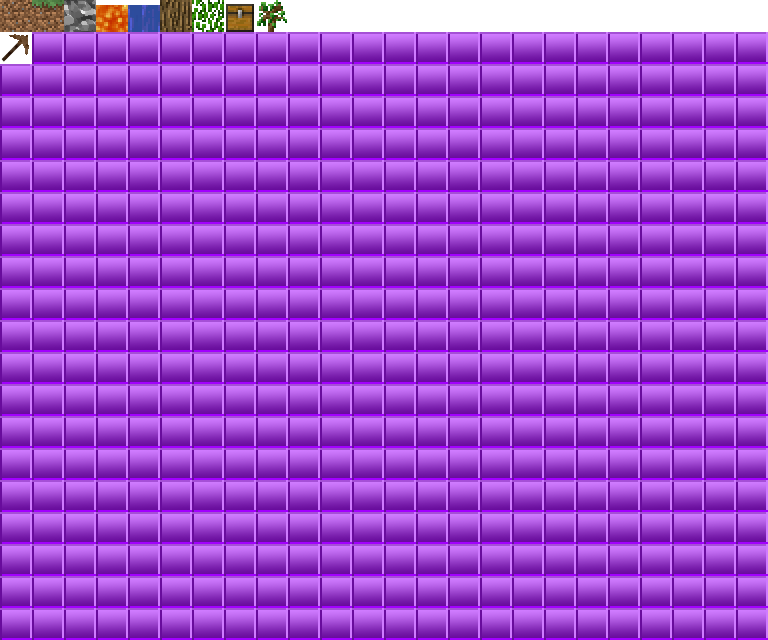
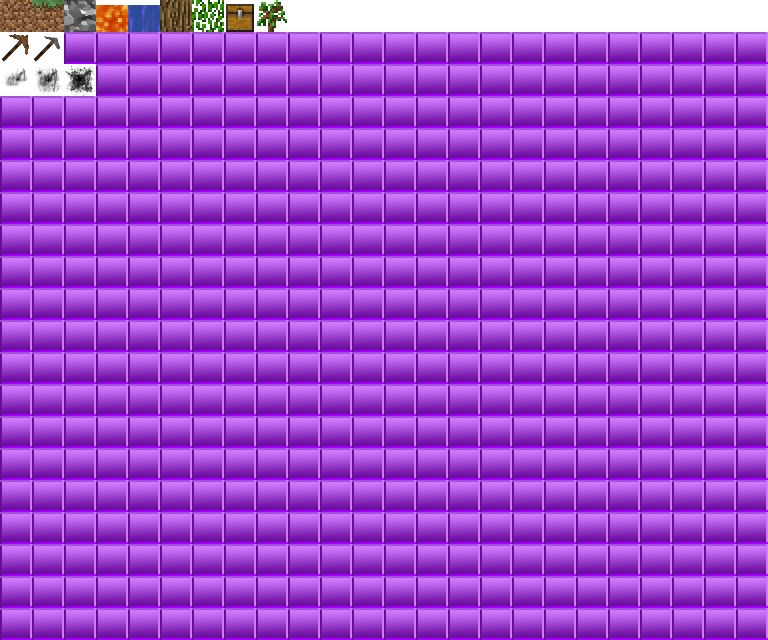
Разрушение блоков в несколько кликов

Changed region(s): [[0.0, 0.0312, 0.125, 0.1562]]

diff --git a/src/entities/blocks/BaseBlock.ts b/src/entities/blocks/BaseBlock.ts
@@ -1,15 +1,20 @@
 import { Inject } from "typedi";
-import StructuresComponent from "../../components/StructuresComponent";
+import StructuresComponent, { DAMAGE_1, DAMAGE_2, DAMAGE_3 } from "../../components/StructuresComponent";
 import Main from "../../Main";
-import { borderSquare } from "../../utils/phaser";
+import { borderSquare, makeTile } from "../../utils/phaser";
 
 export default class BaseBlock extends Phaser.Sprite {
 
     @Inject(() => Main)
     public game: Main;
 
+    public healthDamage: number = 30;
+    public health = 100;
+    public maxHealth = 100;
+
     private hover: Phaser.Graphics = null;
     private disabled: boolean = false;
+    private damageSprite: Phaser.Sprite;
 
     constructor(
         game: Main,
@@ -33,13 +38,46 @@ export default class BaseBlock extends Phaser.Sprite {
                 this.onClick();
             }
         });
+
         this.events.onInputOver.add(() => this.onHover());
         this.events.onInputOut.add(() => this.onHoverOut());
+        this.events.onRevived.add(() => this.onRevived());
+
+        this.damageSprite = makeTile(game, 49);
+        this.damageSprite.position.x = 0;
+        this.damageSprite.position.y = 0;
+        this.damageSprite.exists = false;
+        this.addChild(this.damageSprite);
+    }
+
+    public onRevived() {
+        this.damageSprite.exists = false;
+        this.health = this.maxHealth;
+    }
+
+    public damage(amount: number): Phaser.Sprite {
+        super.damage(amount);
+
+        const health = this.health / this.maxHealth * 100;
+
+        this.damageSprite.exists = true;
+
+        if (health < 100) {
+            this.damageSprite.loadTexture("sheet", DAMAGE_1);
+        }
+        if (health < 70) {
+            this.damageSprite.loadTexture("sheet", DAMAGE_2);
+        }
+        if (health < 30) {
+            this.damageSprite.loadTexture("sheet", DAMAGE_3);
+        }
+
+        return this;
     }
 
     public onClick() {
         if (!this.disabled) {
-            this.kill();
+            this.damage(this.healthDamage);
         }
     }
 

diff --git a/src/entities/structures/MainTreeStructure.ts b/src/entities/structures/MainTreeStructure.ts
@@ -30,19 +30,24 @@ export default class MainTreeStructure extends Structure {
         });
 
         // листья
-        this.observeDestroy([
-            ...structures.makeBlocks(BLOCK_LEAVES, -1, 6, +1, 7),
-            ...structures.makeBlocks(BLOCK_LEAVES, -2, 4, +2, 5),
-        ], () => {
-            this.soundLeaf.play();
-            const reward = this.game.rnd.weightedPick([
-                0,
-                0,
-                1,
-            ]);
+        this.observeDestroy(
+            [
+                ...structures.makeBlocks(BLOCK_LEAVES, -1, 6, +1, 7),
+                ...structures.makeBlocks(BLOCK_LEAVES, -2, 4, +2, 5),
+            ],
+            () => {
+                this.soundLeaf.play();
+                const reward = this.game.rnd.weightedPick([
+                    0,
+                    0,
+                    1,
+                ]);
 
-            this.game.store.inventory.sapling += reward;
-        });
+                this.game.store.inventory.sapling += reward;
+            },
+            () => undefined,
+            100,
+        );
     }
 
     public onStructureDestroyed() {

diff --git a/src/entities/structures/Structure.ts b/src/entities/structures/Structure.ts
@@ -127,11 +127,13 @@ export default abstract class Structure extends Phaser.Group {
      * @param array
      * @param onOneDestroyed - Срабатывает по удалению 1 блока
      * @param onAllDestroyed - Срабатывает, когда все блоки из массива были удалены
+     * @param healthDamage
      */
     public observeDestroy(
         array: Phaser.Sprite[],
         onOneDestroyed: (remain: number) => void = () => undefined,
         onAllDestroyed: () => void = () => undefined,
+        healthDamage: number = 30,
     ) {
         let count = array.length;
         const countStart = array.length;
@@ -150,6 +152,11 @@ export default abstract class Structure extends Phaser.Group {
                     this.destroyStructure();
                 }
             });
+
+            if (healthDamage) {
+                item.healthDamage = healthDamage;
+            }
+
             this.addChild(item);
         });
     }

diff --git a/src/components/StructuresComponent.ts b/src/components/StructuresComponent.ts
@@ -17,6 +17,10 @@ export const BLOCK_LEAVES = 7;
 export const BLOCK_CHEST = 8;
 export const BLOCK_SAPLING = 9;
 
+export const DAMAGE_1 = 48;
+export const DAMAGE_2 = 49;
+export const DAMAGE_3 = 50;
+
 @Service()
 export default class StructuresComponent {
 

diff --git a/src/entities/structures/MainCookieStructure.ts b/src/entities/structures/MainCookieStructure.ts
@@ -28,6 +28,8 @@ export default class MainCookieStructure extends Structure {
                 this.game.store.inventory.cobblestone += 1;
                 this.sound.play();
             },
+            () => null,
+            10,
         );
     }
 }
